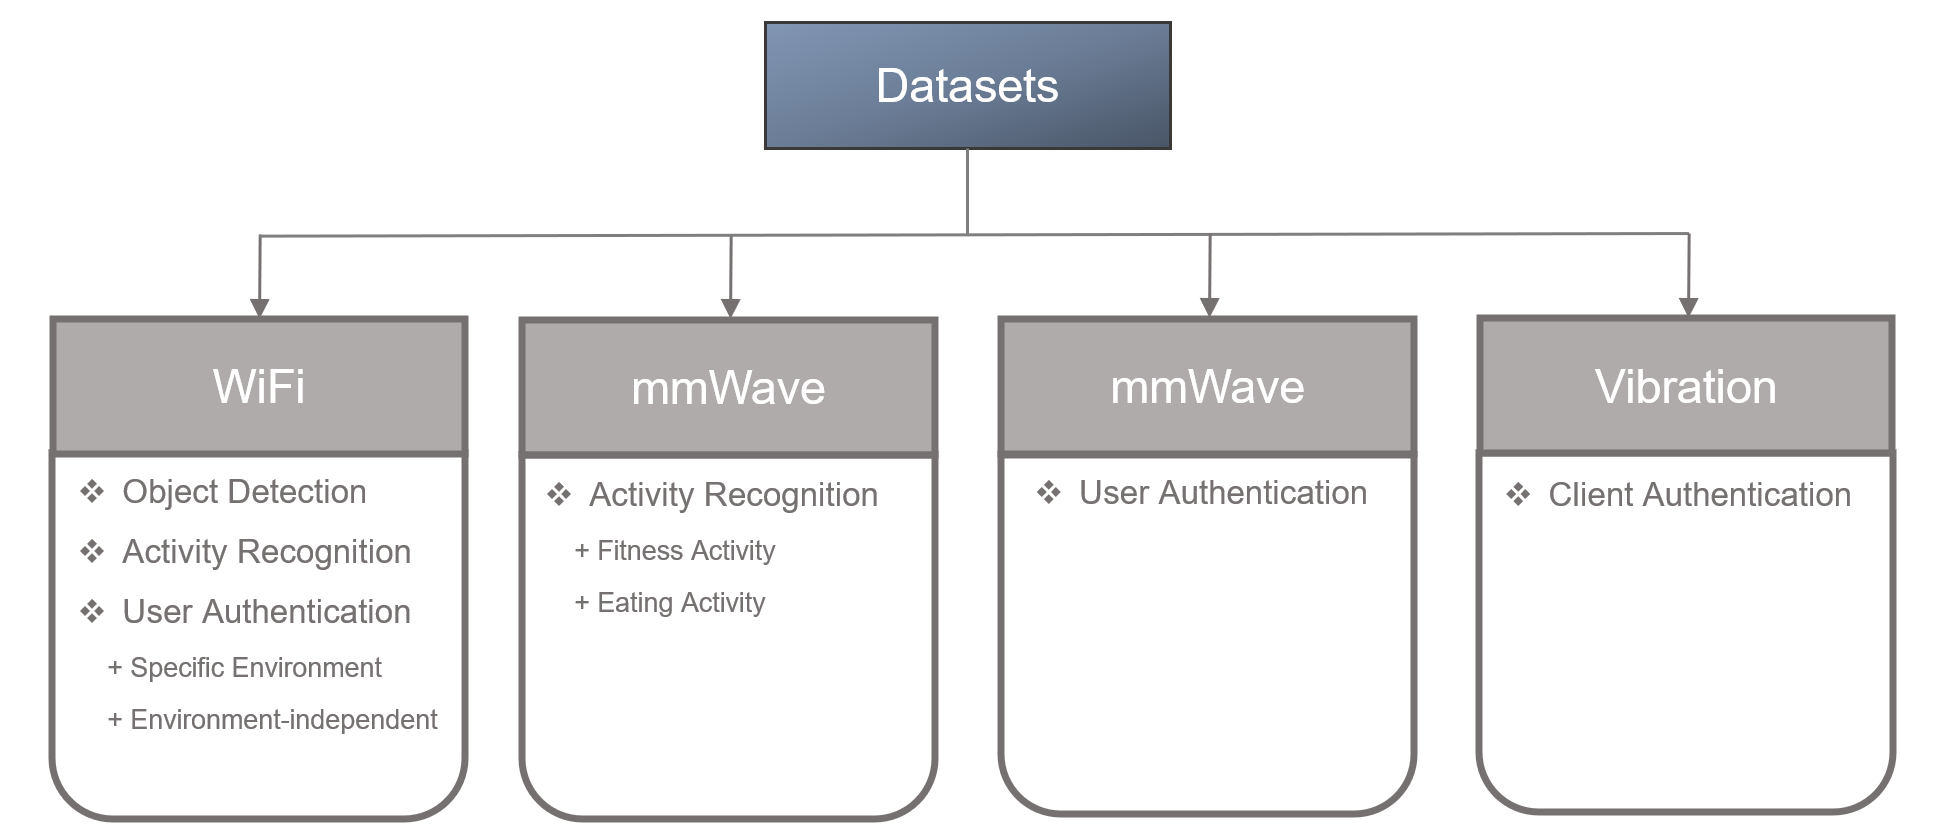
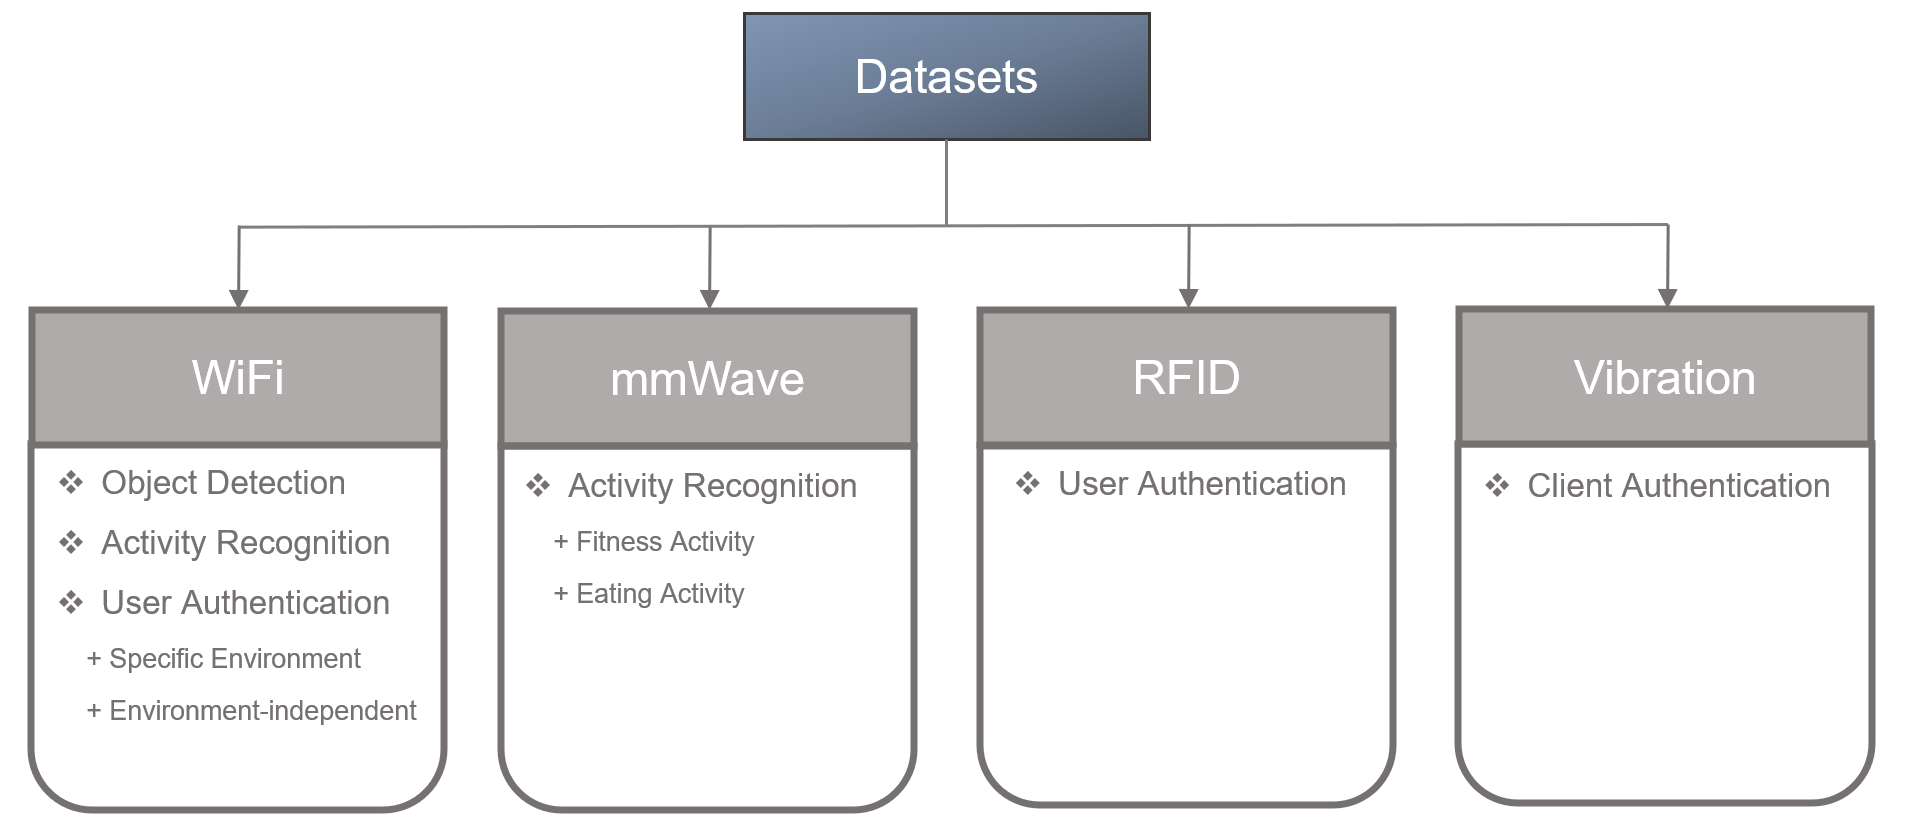
Site updated: 2023-04-03 15:16:27

diff --git a/index.html b/index.html
@@ -520,15 +520,15 @@
 
   <script> 
    var arr=[
-     {class:'1',category:"WiFi", application:"User Authentication", src: "/medias/images/data&APIs/Bahavior_data.png", date:'Mar.19 2023', href: "https://zenodo.org/record/7750976#.ZBfU4HbMKUl",subtitle: "Behavior-based User Authentication Dataset",name:"WiFi",introduction:"This bahavior-based user authentication dataset contains CSI features of 8 walking activities and 9 stationary activities from 11 and 5 volunteers, respectively. The experiments are conducted in 2 different environments, including a university office and an apartment. The performance of the proposed user authentication system is tested in each environment separately. ",short_introduction:"This bahavior-based user authentication dataset contains CSI features of 8 walking activities and 9 stationary activities from 11 and 5 volunteers, respectively. The experiments are conducted in 2 different environments, including a university office and an apartment. The performance of the proposed user authentication system is tested in each environment separately. "},
-	   {class:'1',category:"WiFi", application:"User Authentication & Domain Adaptation", src: "/medias/images/data&APIs/independent_model.png", date:'Mar.19 2023', href: "https://zenodo.org/record/7658801#.ZBfUjHbMKUk",subtitle: "Environment-independent User Authentication Dataset",name:"WiFi",introduction:"This environment-independent user authentication dataset contains WiFi CSI features from 10 participants under 10 different activities. Each participant performs each activity for 20 rounds. The experiments are conducted in two different environments, including a campus office and a home apartment. The system performance is tested on cross-environment scenario (training in an environment and testing in another environment). ",short_introduction:"This environment-independent user authentication dataset contains WiFi CSI features from 10 participants under 10 different activities. Each participant performs each activity for 20 rounds. The experiments are conducted in two different environments, including a campus office and a home apartment. The system performance is tested on cross-environment scenario (training in an environment and testing in another environment). "},
-     {class:'1',category:"WiFi", application:"Object Detection", src: "/medias/images/data&APIs/Object_detection.png", date:'Feb.11 2023', href: "https://zenodo.org/record/7631168#.Y-fvAHbMIQ8",subtitle: "WiFi-based Object Detection",name:"WiFi",introduction:"The dataset contains the extracted CSI features from 14 representative in-baggage objects of 4 different materials. The experiments are conducted in 3 different office environments with different sizes.",short_introduction:"The dataset contains the extracted CSI features from 14 representative in-baggage objects of 4 different materials. The experiments are conducted in 3 different office environments with different sizes."},
+     {class:'1',category:"WiFi", application:"User Authentication", src: "/medias/images/data&APIs/Bahavior_data.png", date:'March 2023', href: "https://zenodo.org/record/7750976#.ZBfU4HbMKUl",subtitle: "Behavior-based User Authentication Dataset",name:"WiFi",introduction:"This bahavior-based user authentication dataset contains CSI features of 8 walking activities and 9 stationary activities from 11 and 5 volunteers, respectively. The experiments are conducted in 2 different environments, including a university office and an apartment. The performance of the proposed user authentication system is tested in each environment separately. ",short_introduction:"This bahavior-based user authentication dataset contains CSI features of 8 walking activities and 9 stationary activities from 11 and 5 volunteers, respectively. The experiments are conducted in 2 different environments, including a university office and an apartment. The performance of the proposed user authentication system is tested in each environment separately. "},
+	   {class:'1',category:"WiFi", application:"User Authentication & Domain Adaptation", src: "/medias/images/data&APIs/independent_model.png", date:'March 2023', href: "https://zenodo.org/record/7658801#.ZBfUjHbMKUk",subtitle: "Environment-independent User Authentication Dataset",name:"WiFi",introduction:"This environment-independent user authentication dataset contains WiFi CSI features from 10 participants under 10 different activities. Each participant performs each activity for 20 rounds. The experiments are conducted in two different environments, including a campus office and a home apartment. The system performance is tested on cross-environment scenario (training in an environment and testing in another environment). ",short_introduction:"This environment-independent user authentication dataset contains WiFi CSI features from 10 participants under 10 different activities. Each participant performs each activity for 20 rounds. The experiments are conducted in two different environments, including a campus office and a home apartment. The system performance is tested on cross-environment scenario (training in an environment and testing in another environment). "},
+     {class:'1',category:"WiFi", application:"Object Detection", src: "/medias/images/data&APIs/Object_detection.png", date:'February 2023', href: "https://zenodo.org/record/7631168#.Y-fvAHbMIQ8",subtitle: "WiFi-based Object Detection",name:"WiFi",introduction:"The dataset contains the extracted CSI features from 14 representative in-baggage objects of 4 different materials. The experiments are conducted in 3 different office environments with different sizes.",short_introduction:"The dataset contains the extracted CSI features from 14 representative in-baggage objects of 4 different materials. The experiments are conducted in 3 different office environments with different sizes."},
 	   
-	   {class:'1',category:"Vibration", application:"User Authentication", src: "/medias/images/data&APIs/Vibration_system.jpg", date:'Feb.6 2023', href: "https://zenodo.org/record/7730420",subtitle: "Vibration-based Client Authentication",name:"Vibration",introduction:"The dataset provide vibration information extracted from wearable device. The dataset contains x,y,z axis movement positional data collected from 2 participants in ten's hours of on desk and on wrist motion activities. We develop a series of data processing methods to mitigate the impacts of noises and body movements.",short_introduction:"The dataset provide vibration information extracted from wearable device. The dataset contains x,y,z axis movement positional data collected from 2 participants in ten's hours of on desk and on wrist motion activities. We develop a series of data processing methods to mitigate the impacts of noises and body movements."},
-	   {class:'1',category:"mmWave", application:"Activity Recognition", src: "/medias/images/data&APIs/mmWave_fitness.png", date:'Dem.6 2021', href: "https://zenodo.org/record/7793613#.ZCo6Kuxudf0",subtitle: "MmWave-based Fitness Activity Recognition",name:"mmWave",introduction:"The mmWave-based fitness activity dataset is used for people fitness activity recognition task. It contains 14 common fitness activities (e.g., crunch, squats, etc.). The data are all captured by the mmWave radar TI-AWR1642. We develop spatial-temporal heatmaps to extract fitness activity features from mmWave signals.", short_introduction:"The mmWave-based fitness activity dataset is used for people fitness activity recognition task. It contains 14 common fitness activities (e.g., crunch, squats, etc.). The data are all captured by the mmWave radar TI-AWR1642. We develop spatial-temporal heatmaps to extract fitness activity features from mmWave signals."},
-	   {class:'1',category:"mmWave", application:"Activity Recognition", src: "/medias/images/data&APIs/mmWave_eating.png", date:'Dem.6 2021', href: "https://zenodo.org/record/7793609#.ZCpNcezMJf0",subtitle: "MmWave-based Eating Activity Recognition",name:"mmWave",introduction:"The mmWave-based fitness activity dataset is used for people eating activity recognition task. It contains 5 common eating activities (e.g., eating with fork, eating with chopsticks, etc.). The data are all captured by the mmWave radar TI-AWR1642. We develop spatial-temporal heatmaps to extract fitness activity features from mmWave signals.", short_introduction:"The mmWave-based fitness activity dataset is used for people eating activity recognition task. It contains 5 common eating activities (e.g., eating with fork, eating with chopsticks, etc.). The data are all captured by the mmWave radar TI-AWR1642. We develop spatial-temporal heatmaps to extract fitness activity features from mmWave signals."},
+	   {class:'1',category:"Vibration", application:"User Authentication", src: "/medias/images/data&APIs/Vibration_system.jpg", date:'February 2023', href: "https://zenodo.org/record/7730420",subtitle: "Vibration-based Client Authentication",name:"Vibration",introduction:"The dataset provide vibration information extracted from wearable device. The dataset contains x,y,z axis movement positional data collected from 2 participants in ten's hours of on desk and on wrist motion activities. We develop a series of data processing methods to mitigate the impacts of noises and body movements.",short_introduction:"The dataset provide vibration information extracted from wearable device. The dataset contains x,y,z axis movement positional data collected from 2 participants in ten's hours of on desk and on wrist motion activities. We develop a series of data processing methods to mitigate the impacts of noises and body movements."},
+	   {class:'1',category:"mmWave", application:"Activity Recognition", src: "/medias/images/data&APIs/mmWave_fitness.png", date:'December 2021', href: "https://zenodo.org/record/7793613#.ZCo6Kuxudf0",subtitle: "MmWave-based Fitness Activity Recognition",name:"mmWave",introduction:"The mmWave-based fitness activity dataset is used for people fitness activity recognition task. It contains 14 common fitness activities (e.g., crunch, squats, etc.). The data are all captured by the mmWave radar TI-AWR1642. We develop spatial-temporal heatmaps to extract fitness activity features from mmWave signals.", short_introduction:"The mmWave-based fitness activity dataset is used for people fitness activity recognition task. It contains 14 common fitness activities (e.g., crunch, squats, etc.). The data are all captured by the mmWave radar TI-AWR1642. We develop spatial-temporal heatmaps to extract fitness activity features from mmWave signals."},
+	   {class:'1',category:"mmWave", application:"Activity Recognition", src: "/medias/images/data&APIs/mmWave_eating.png", date:'December 2021', href: "https://zenodo.org/record/7793609#.ZCpNcezMJf0",subtitle: "MmWave-based Eating Activity Recognition",name:"mmWave",introduction:"The mmWave-based fitness activity dataset is used for people eating activity recognition task. It contains 5 common eating activities (e.g., eating with fork, eating with chopsticks, etc.). The data are all captured by the mmWave radar TI-AWR1642. We develop spatial-temporal heatmaps to extract fitness activity features from mmWave signals.", short_introduction:"The mmWave-based fitness activity dataset is used for people eating activity recognition task. It contains 5 common eating activities (e.g., eating with fork, eating with chopsticks, etc.). The data are all captured by the mmWave radar TI-AWR1642. We develop spatial-temporal heatmaps to extract fitness activity features from mmWave signals."},
 	   
-     {class:'1',category:"RFID", application:"User Authentication", src: "/medias/images/data&APIs/RFID_BioTag.png", date:'July.15 2021', href: "https://zenodo.org/record/7793609#.ZCpNcezMJf0",subtitle: "RFID-based Continuous User Verification",name:"RFID Sensing",introduction:"BioTag RFID dataset is initially collected for continuous user verification. The dataset contains raw RFID samples from two RFID tags attached to the chest and abdomen of 10 participants. The RFID samples capture users' unique physiological characteristics, such as heartbeat and respiration patterns.",short_introduction:"BioTag is an RFID dataset originally collected for continuous user authentication based on unique biometrics in human respiration patterns. This dataset contains RFID raw data samples collected from two RFID tags attached to the chest and abdomen of 10 participants."},
+     {class:'1',category:"RFID", application:"User Authentication", src: "/medias/images/data&APIs/RFID_BioTag.png", date:'July 2021', href: "https://zenodo.org/record/7793609#.ZCpNcezMJf0",subtitle: "RFID-based Continuous User Verification",name:"RFID Sensing",introduction:"BioTag RFID dataset is initially collected for continuous user verification. The dataset contains raw RFID samples from two RFID tags attached to the chest and abdomen of 10 participants. The RFID samples capture users' unique physiological characteristics, such as heartbeat and respiration patterns.",short_introduction:"BioTag is an RFID dataset originally collected for continuous user authentication based on unique biometrics in human respiration patterns. This dataset contains RFID raw data samples collected from two RFID tags attached to the chest and abdomen of 10 participants."},
 	    ]
    var num_data=0;
    var num_api=0;
